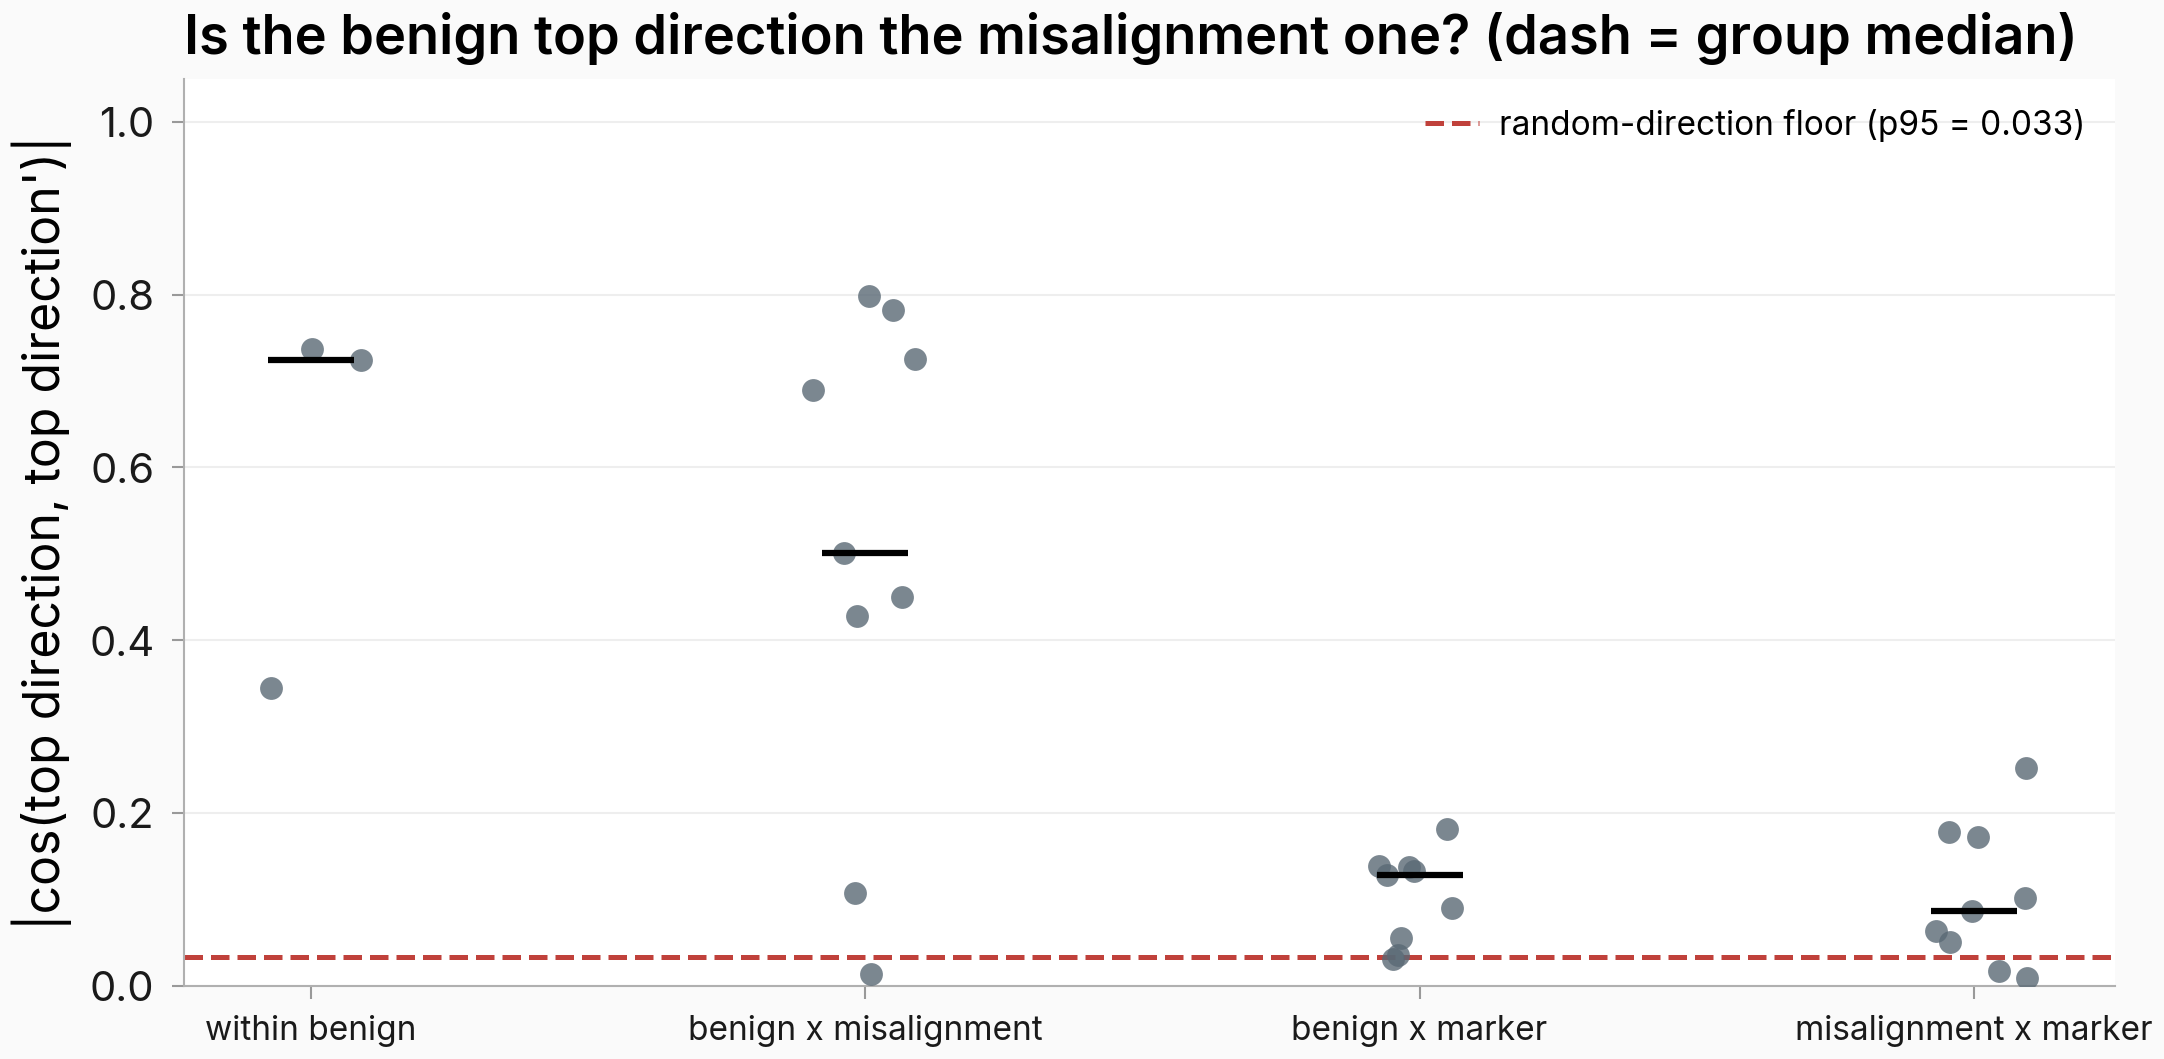
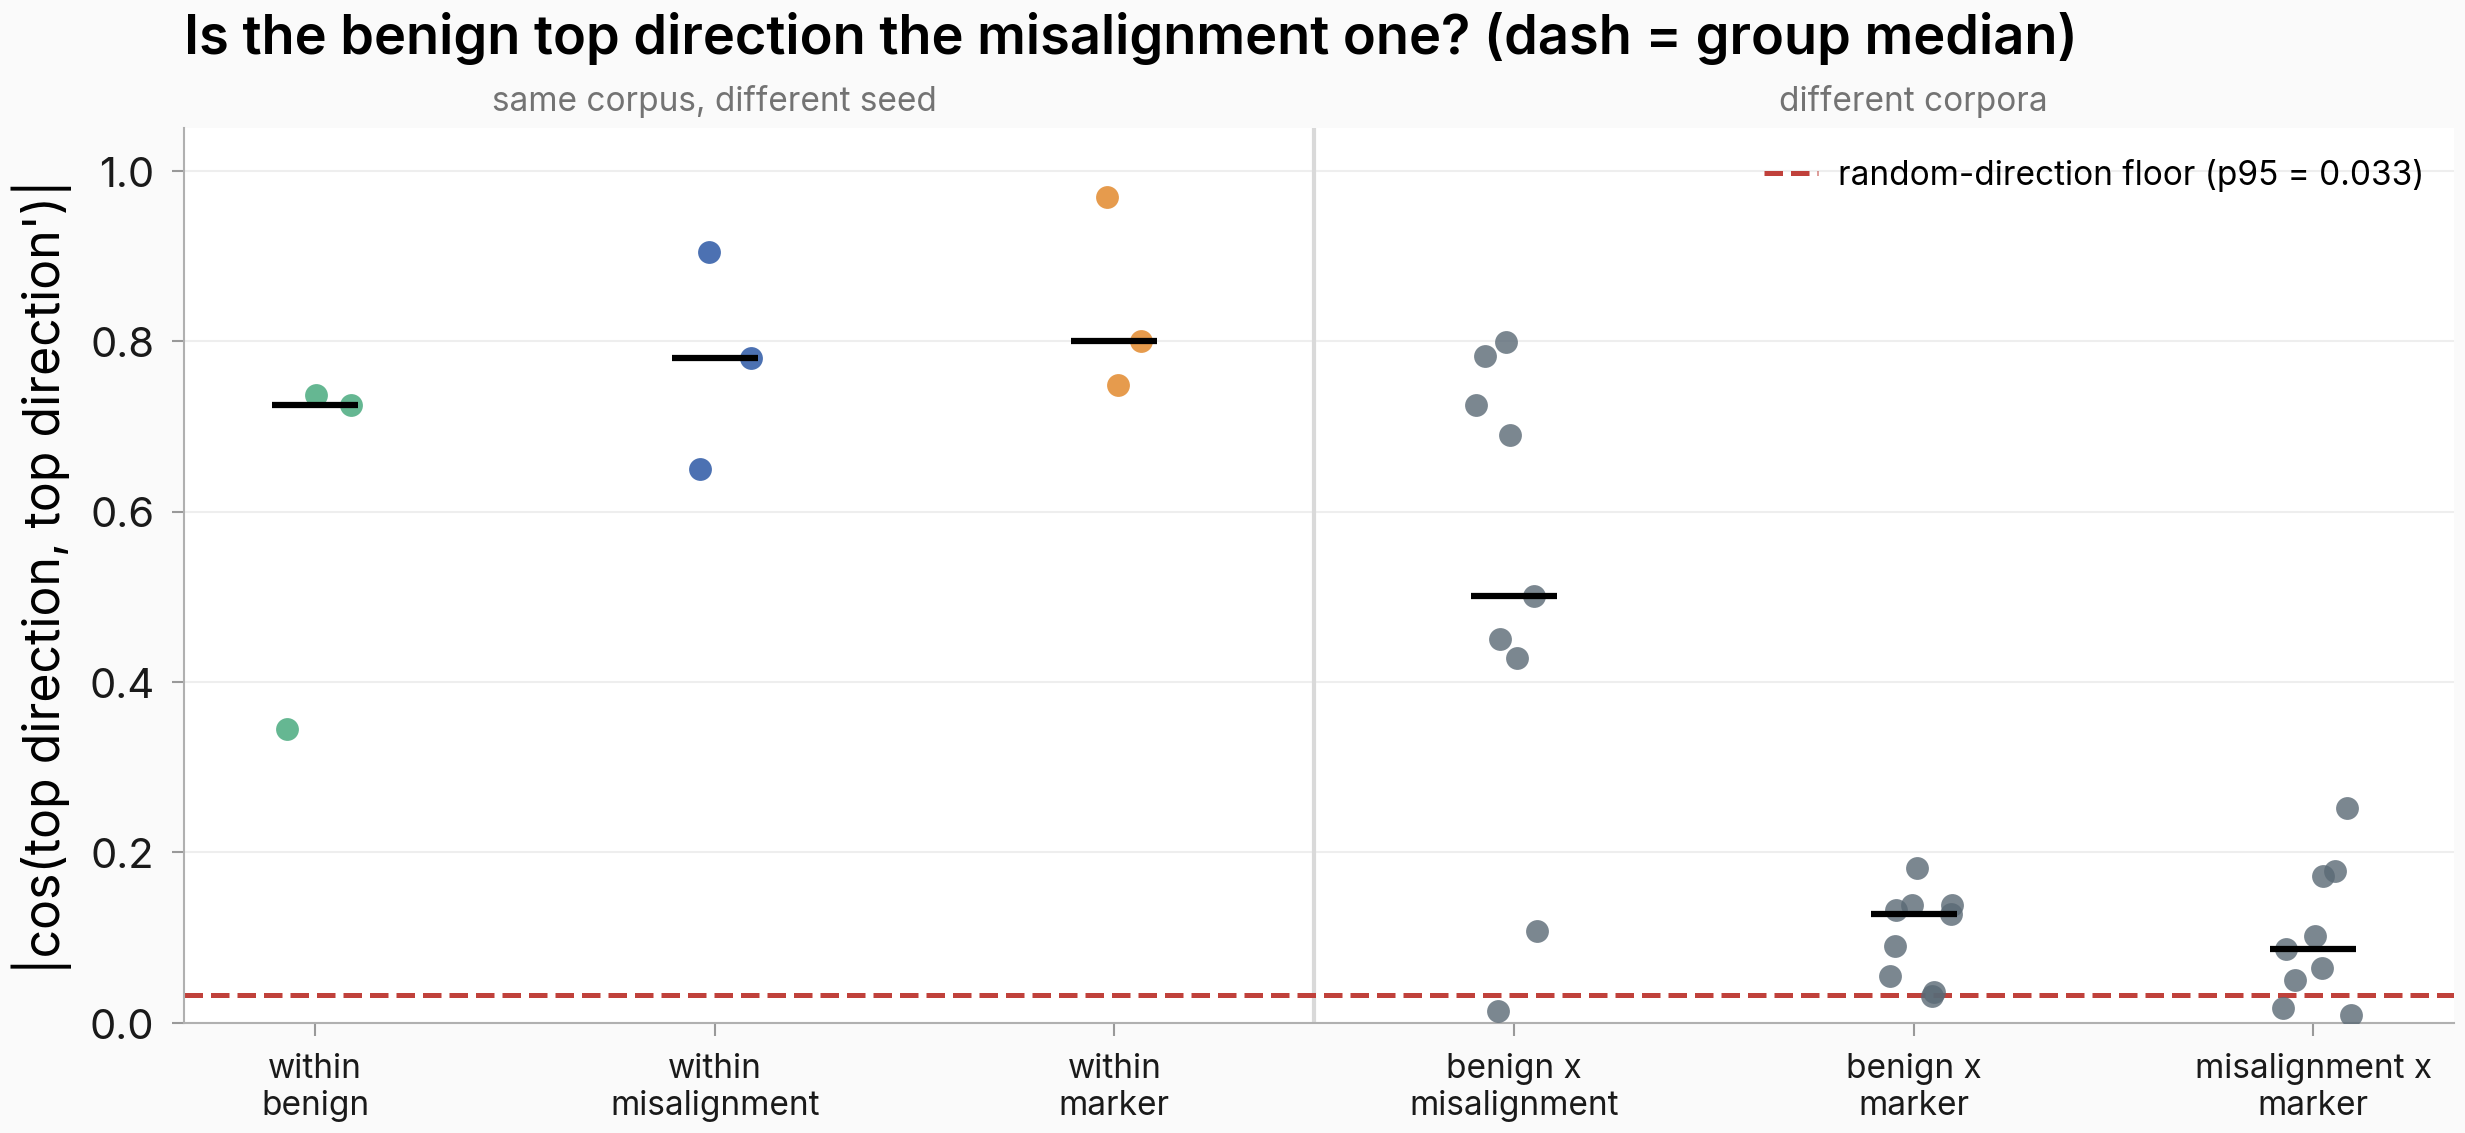
issue-552: cross_arm_directions shows all three within-arm reliability strips (interp-critique round-1 request 4)

diff --git a/scripts/issue552_figures.py b/scripts/issue552_figures.py
@@ -234,28 +234,62 @@ def fig_cross_arm_directions(args) -> None:
     def acos(a, b):
         return float(abs(np.dot(a, b) / (np.linalg.norm(a) * np.linalg.norm(b))))
 
-    groups: dict[str, list[float]] = {
-        "within benign": [
-            acos(u1[("benign", a)], u1[("benign", b)]) for a, b in combinations(SEEDS, 2)
-        ],
-        "benign x misalignment": [
-            acos(u1[("benign", a)], u1[("em", b)]) for a in SEEDS for b in SEEDS
-        ],
-        "benign x marker": [
-            acos(u1[("benign", a)], u1[("marker", b)]) for a in SEEDS for b in SEEDS
-        ],
-        "misalignment x marker": [
-            acos(u1[("em", a)], u1[("marker", b)]) for a in SEEDS for b in SEEDS
-        ],
+    # Within-arm strips (the seed-to-seed reliability ceilings) first, then the
+    # three cross-arm strips. Within-arm dots take their arm's color (consistent
+    # with every other figure); cross-arm pairs mix two arms, so they stay neutral.
+    groups: dict[str, tuple[list[float], str]] = {
+        "within\nbenign": (
+            [acos(u1[("benign", a)], u1[("benign", b)]) for a, b in combinations(SEEDS, 2)],
+            C_BENIGN,
+        ),
+        "within\nmisalignment": (
+            [acos(u1[("em", a)], u1[("em", b)]) for a, b in combinations(SEEDS, 2)],
+            C_EM,
+        ),
+        "within\nmarker": (
+            [acos(u1[("marker", a)], u1[("marker", b)]) for a, b in combinations(SEEDS, 2)],
+            C_MARKER,
+        ),
+        "benign x\nmisalignment": (
+            [acos(u1[("benign", a)], u1[("em", b)]) for a in SEEDS for b in SEEDS],
+            C_NEUTRAL,
+        ),
+        "benign x\nmarker": (
+            [acos(u1[("benign", a)], u1[("marker", b)]) for a in SEEDS for b in SEEDS],
+            C_NEUTRAL,
+        ),
+        "misalignment x\nmarker": (
+            [acos(u1[("em", a)], u1[("marker", b)]) for a in SEEDS for b in SEEDS],
+            C_NEUTRAL,
+        ),
     }
 
-    fig, ax = plt.subplots(figsize=(7.4, 4.2))
-    fig.subplots_adjust(bottom=0.16, top=0.88, left=0.10, right=0.97)
+    fig, ax = plt.subplots(figsize=(8.6, 4.2))
+    fig.subplots_adjust(bottom=0.17, top=0.88, left=0.09, right=0.97)
     rng = np.random.default_rng(1)
-    for x, vals in enumerate(groups.values()):
+    for x, (vals, color) in enumerate(groups.values()):
         jit = rng.uniform(-0.10, 0.10, size=len(vals))
-        ax.scatter(x + jit, vals, s=30, color=C_NEUTRAL, alpha=0.8, zorder=3)
+        ax.scatter(x + jit, vals, s=30, color=color, alpha=0.8, zorder=3)
         ax.scatter(x, float(np.median(vals)), marker="_", s=420, color="black", zorder=5)
+    ax.axvline(2.5, color="0.85", linewidth=1.0, zorder=1)
+    ax.text(
+        1.0,
+        1.02,
+        "same corpus, different seed",
+        transform=ax.get_xaxis_transform(),
+        ha="center",
+        fontsize=8,
+        color="0.45",
+    )
+    ax.text(
+        4.0,
+        1.02,
+        "different corpora",
+        transform=ax.get_xaxis_transform(),
+        ha="center",
+        fontsize=8,
+        color="0.45",
+    )
     ax.axhline(
         RANDOM_COS_FLOOR_P95,
         color=C_ACCENT,
@@ -267,7 +301,7 @@ def fig_cross_arm_directions(args) -> None:
     ax.set_xticklabels(list(groups.keys()), fontsize=8)
     ax.set_ylabel("|cos(top direction, top direction')|")
     ax.set_ylim(0, 1.05)
-    ax.set_title("Is the benign top direction the misalignment one? (dash = group median)")
+    ax.set_title("Is the benign top direction the misalignment one? (dash = group median)", pad=18)
     ax.legend(frameon=False, fontsize=8)
     savefig_paper(fig, "cross_arm_directions", dir=args.out_dir)
     plt.close(fig)
